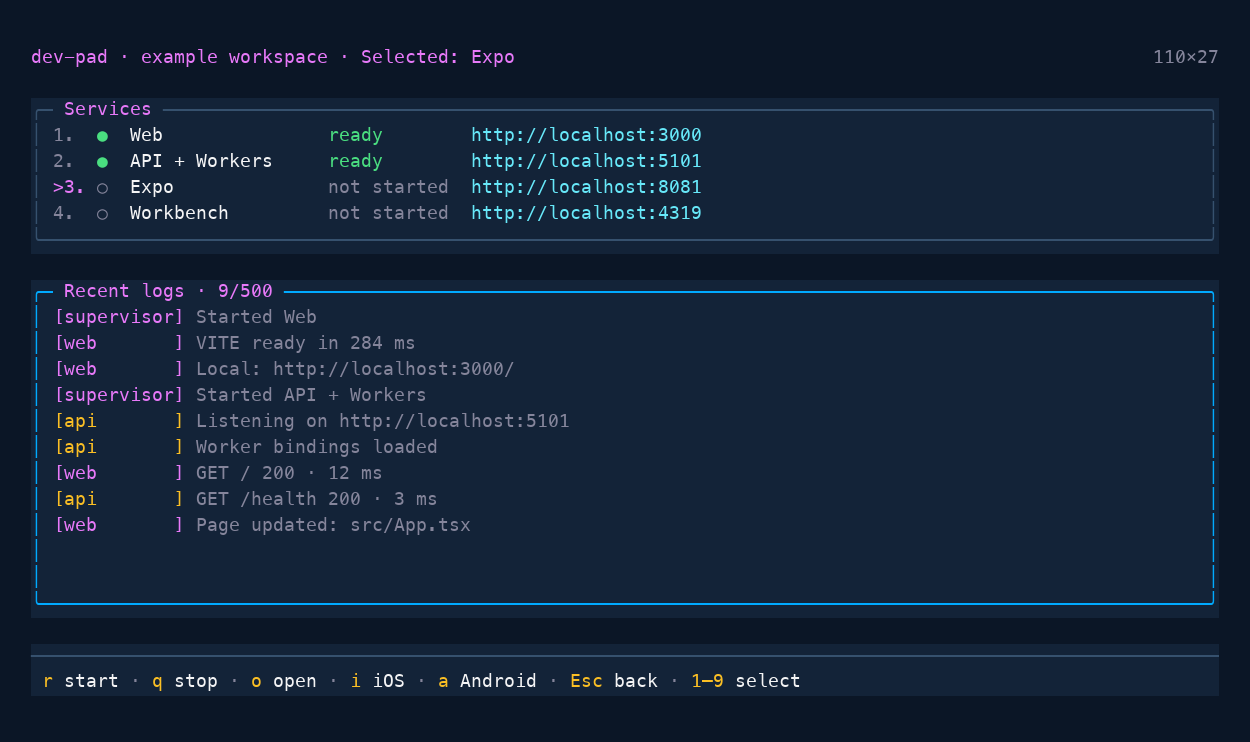
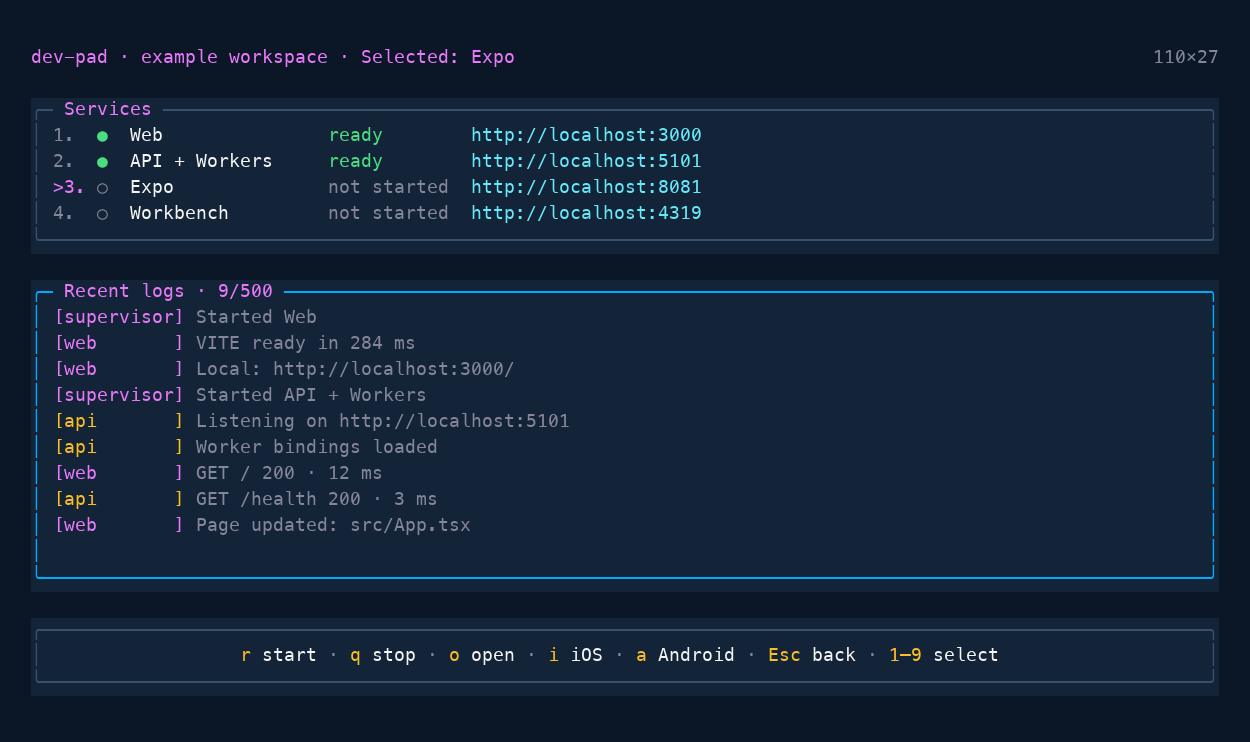
Fix service detail indentation and restore bordered toolbar

Changed region(s): [[0.0312, 0.8679, 0.8112, 0.9299]]

diff --git a/src/opentui.tsx b/src/opentui.tsx
@@ -166,7 +166,11 @@ export async function mountUI(
                     </text>
                   )}
                 </box>
-                {service.items?.map(itemLine)}
+                {!!service.items?.length && (
+                  <box flexDirection="column" paddingLeft={7} flexShrink={0}>
+                    {service.items.map(itemLine)}
+                  </box>
+                )}
               </box>
             );
           })}
@@ -229,14 +233,14 @@ export async function mountUI(
           </text>
         )}
         <box
-          height={2}
+          height={3}
           flexShrink={0}
-          border={["top"]}
-          borderStyle="single"
+          border
+          borderStyle="rounded"
           borderColor={colors.border}
           backgroundColor={colors.panel}
           paddingX={1}
-          alignItems="flex-start"
+          alignItems="center"
         >
           <text truncate>
             {(snapshot.selectedId

diff --git a/src/ui.ts b/src/ui.ts
@@ -117,10 +117,11 @@ export async function mountUI(
     for (const [index, service] of snapshot.services.entries()) {
       const appearance = statusAppearance(service.status);
       details.push([
-        ` ${snapshot.selectedId === service.id ? ">" : ""}${index + 1}. ${appearance.marker} ${service.name}  ${service.status}  ${service.url}`,
+        ` ${`${snapshot.selectedId === service.id ? ">" : ""}${index + 1}.`.padEnd(4)}${appearance.marker}  ${service.name}  ${service.status}  ${service.url}`,
         appearance.tone,
       ]);
-      for (const item of service.items ?? []) details.push([`   ${item.label}: ${item.value}`, item.tone ?? "muted"]);
+      for (const item of service.items ?? [])
+        details.push([`        ${item.label}: ${item.value}`, item.tone ?? "muted"]);
     }
     for (const item of snapshot.items) details.push([` ${item.label}: ${item.value}`, item.tone ?? "info"]);
     const budget = Math.max(0, height - 7);
